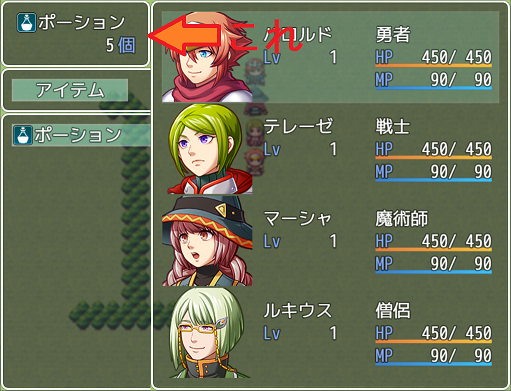
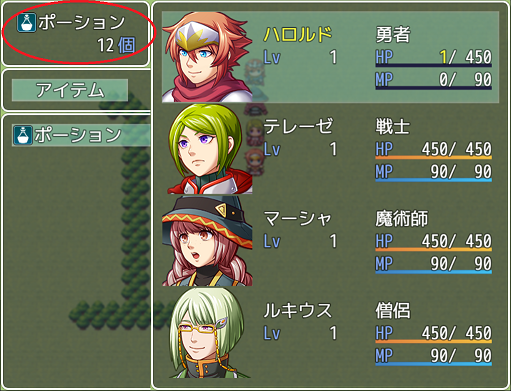
表示位置、表示単位をプラグインパラメータで変更可能に

diff --git a/GR_ItemQuantityDisplay/GR_ItemQuantityDisplay.js b/GR_ItemQuantityDisplay/GR_ItemQuantityDisplay.js
@@ -3,7 +3,7 @@
 // 作成者     :げれげれ 
 // 作成日     : 2021/03/05
 // 最終更新日 : 2021/03/05
-// バージョン : v1.0.0
+// バージョン : v1.0.1
 // ----------------------------------------------------------------------------
 // Released under the MIT License.
 // https://opensource.org/licenses/mit-license.php
@@ -12,11 +12,23 @@
 /*:
  * @plugindesc 
  * @author げれげれ
- *
+ * 
+ * @param window_y
+ * @type number
+ * @desc アイテム残数ウインドウを表示するｙ座標です
+ * @default 80
+ * 
+ * @param position
+ * @type boolean
+ * @desc 単位の表示位置を前後から選べます
+ * @on 前
+ * @off 後
+ * @default true
+ * 
  * @param unit
  * @type string
  * @desc 単位
- * @default 個
+ * @default 残：
  *
  * @help
  * メニュー画面からアクターに対しアイテムを使用する際に
@@ -37,6 +49,8 @@
 
 /* プラグインパラメータ */
 const PARAMETERS = PluginManager.parameters('GR_ItemQuantityDisplay');
+const WINDOW_Y = parseInt(PARAMETERS['window_y']);
+const POSITION = PARAMETERS['position'] === 'true' ? true : false ;
 const UNIT = PARAMETERS['unit'];
 
 //シーン関連
@@ -53,8 +67,8 @@ Scene_Item.prototype.createQuantityWindow = function() {
 };
 
 Scene_Item.prototype.determineItem = function() {
-    let action = new Game_Action(this.user());
-    let item = this.item();
+    const action = new Game_Action(this.user());
+    const item = this.item();
     action.setItemObject(item);
     if (action.isForFriend()) {
         this.showSubWindow(this._actorWindow);
@@ -99,7 +113,7 @@ Window_Quantity.prototype.initialize = function(parentScene) {
     this._parentScene = parentScene;
     const width = this.windowWidth();
     const height = this.windowHeight();
-    Window_Base.prototype.initialize.call(this, 0, 0, width, height);
+    Window_Base.prototype.initialize.call(this, 0, WINDOW_Y, width, height);
 };
 
 Window_Quantity.prototype.windowWidth = function() {
@@ -118,11 +132,20 @@ Window_Quantity.prototype.refresh = function() {
     const value = this.itemQuantity(item);
     this.contents.clear();
     this.drawItemName(item, x, 0, width);
-    this.drawCurrencyValue(value, UNIT, x, y, width);
+    if(POSITION) {
+        this.drawCurrencyValueFront(value, UNIT, x, y, width);
+    } else {
+        this.drawCurrencyValue(value, UNIT, x, y, width);
+    }
 };
 
 Window_Quantity.prototype.itemQuantity = function(item) {
     return $gameParty.numItems(item);
+};
+
+Window_Quantity.prototype.drawCurrencyValueFront = function(value, unit, x, y, width) {
+    this.resetTextColor();
+    this.drawText(`${unit} ${value}`, x, y, width, 'right');
 };
 
 })();

diff --git a/GR_ItemQuantityDisplay/README.md b/GR_ItemQuantityDisplay/README.md
@@ -31,17 +31,29 @@ Released under the MIT License.
 ### 【機能】
 
 メニュー画面からアクターに対してアイテムを使用する際に  
-アイテム名と残数を表示します。
+アイテム名と残数を表示します。  
+表示位置の微調整や表示単位の変更も可能です。
 
+（デフォルト）
+![使用例](img/sample2.png)
+（表示位置を画面トップに揃え、表示単位を「〇個」に変更）
 ![使用例](img/sample1.png)
 
 ---
 
 ### 【プラグインパラメータ】
 
+- window_y  
+  アイテム残数ウインドウを表示するｙ座標です  
+  デフォルト値 80
+
+- position  
+  単位の表示位置を前後から選べます
+  デフォルト値 前
+
 - unit  
   残数表示の単位です。  
-  デフォルト値 「個」
+  デフォルト値 「残：」
 
 ---
 
